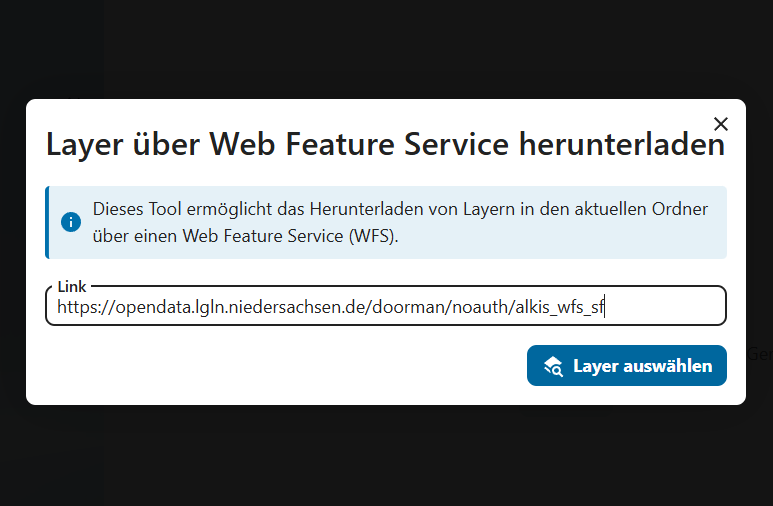
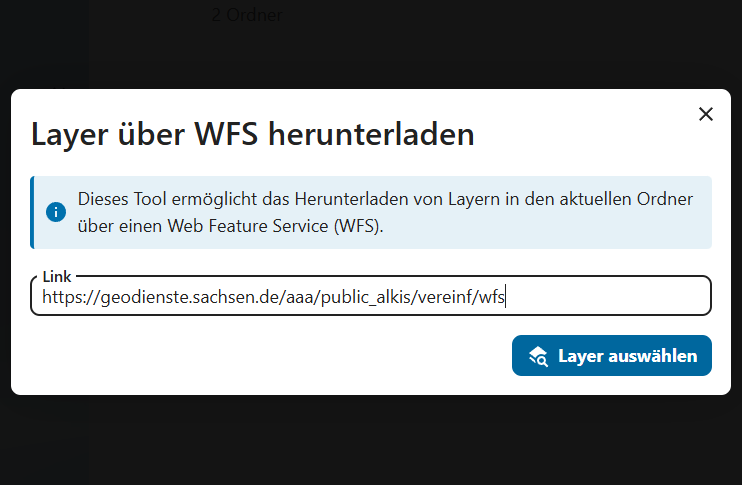
changed title

Changed region(s): [[0.0, 0.1856, 0.9919, 0.8351]]

diff --git a/src/components/WFSModalView.vue b/src/components/WFSModalView.vue
@@ -1,7 +1,7 @@
 <template>
-	<NcModal v-if="visible" name="Layer über Web Feature Service herunterladen" @close="close">
+	<NcModal v-if="visible" name="Layer über WFS herunterladen" @close="close">
 		<h2 v-if="!showCapabilities">
-			Layer über Web Feature Service herunterladen
+			Layer über WFS herunterladen
 		</h2>
 		<h2 v-else>
 			Layer Auswahl
